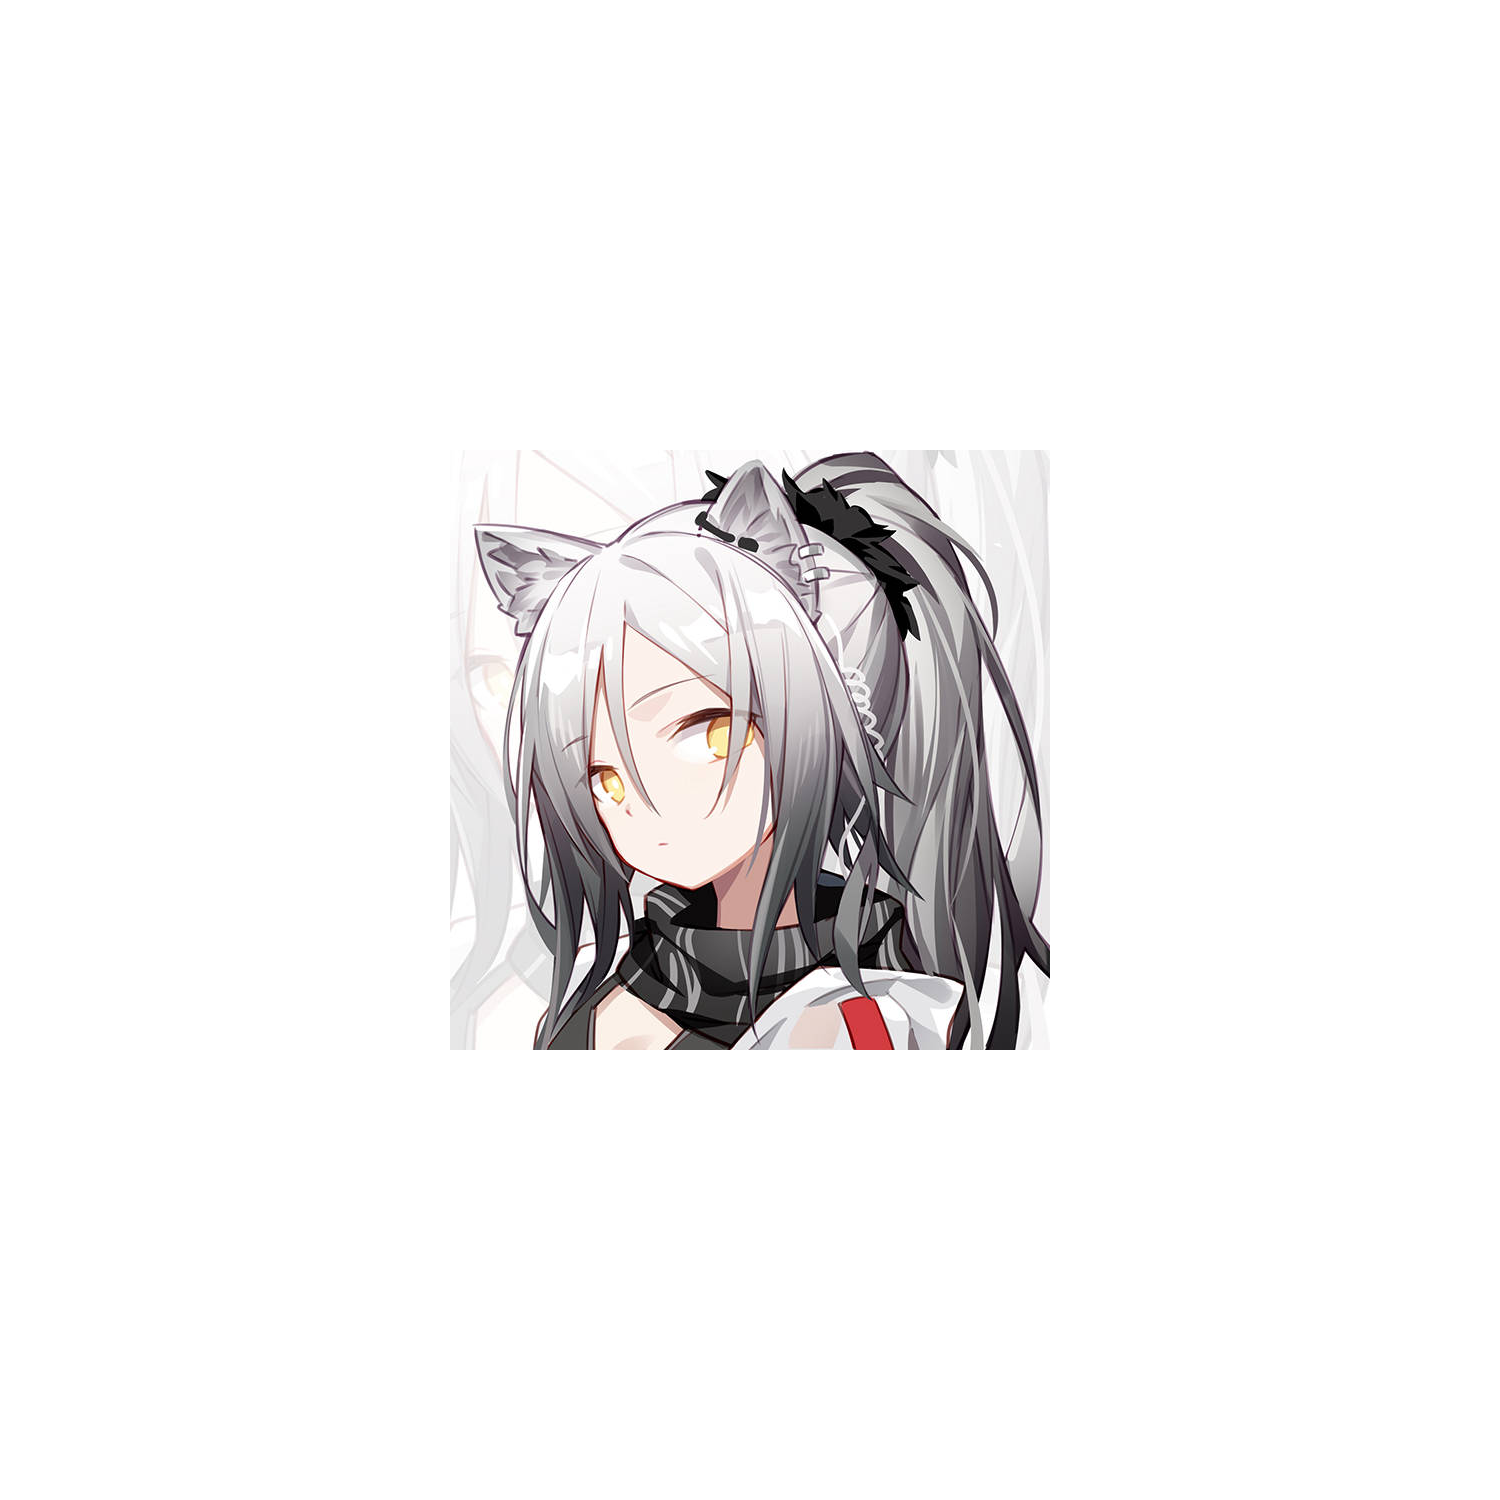
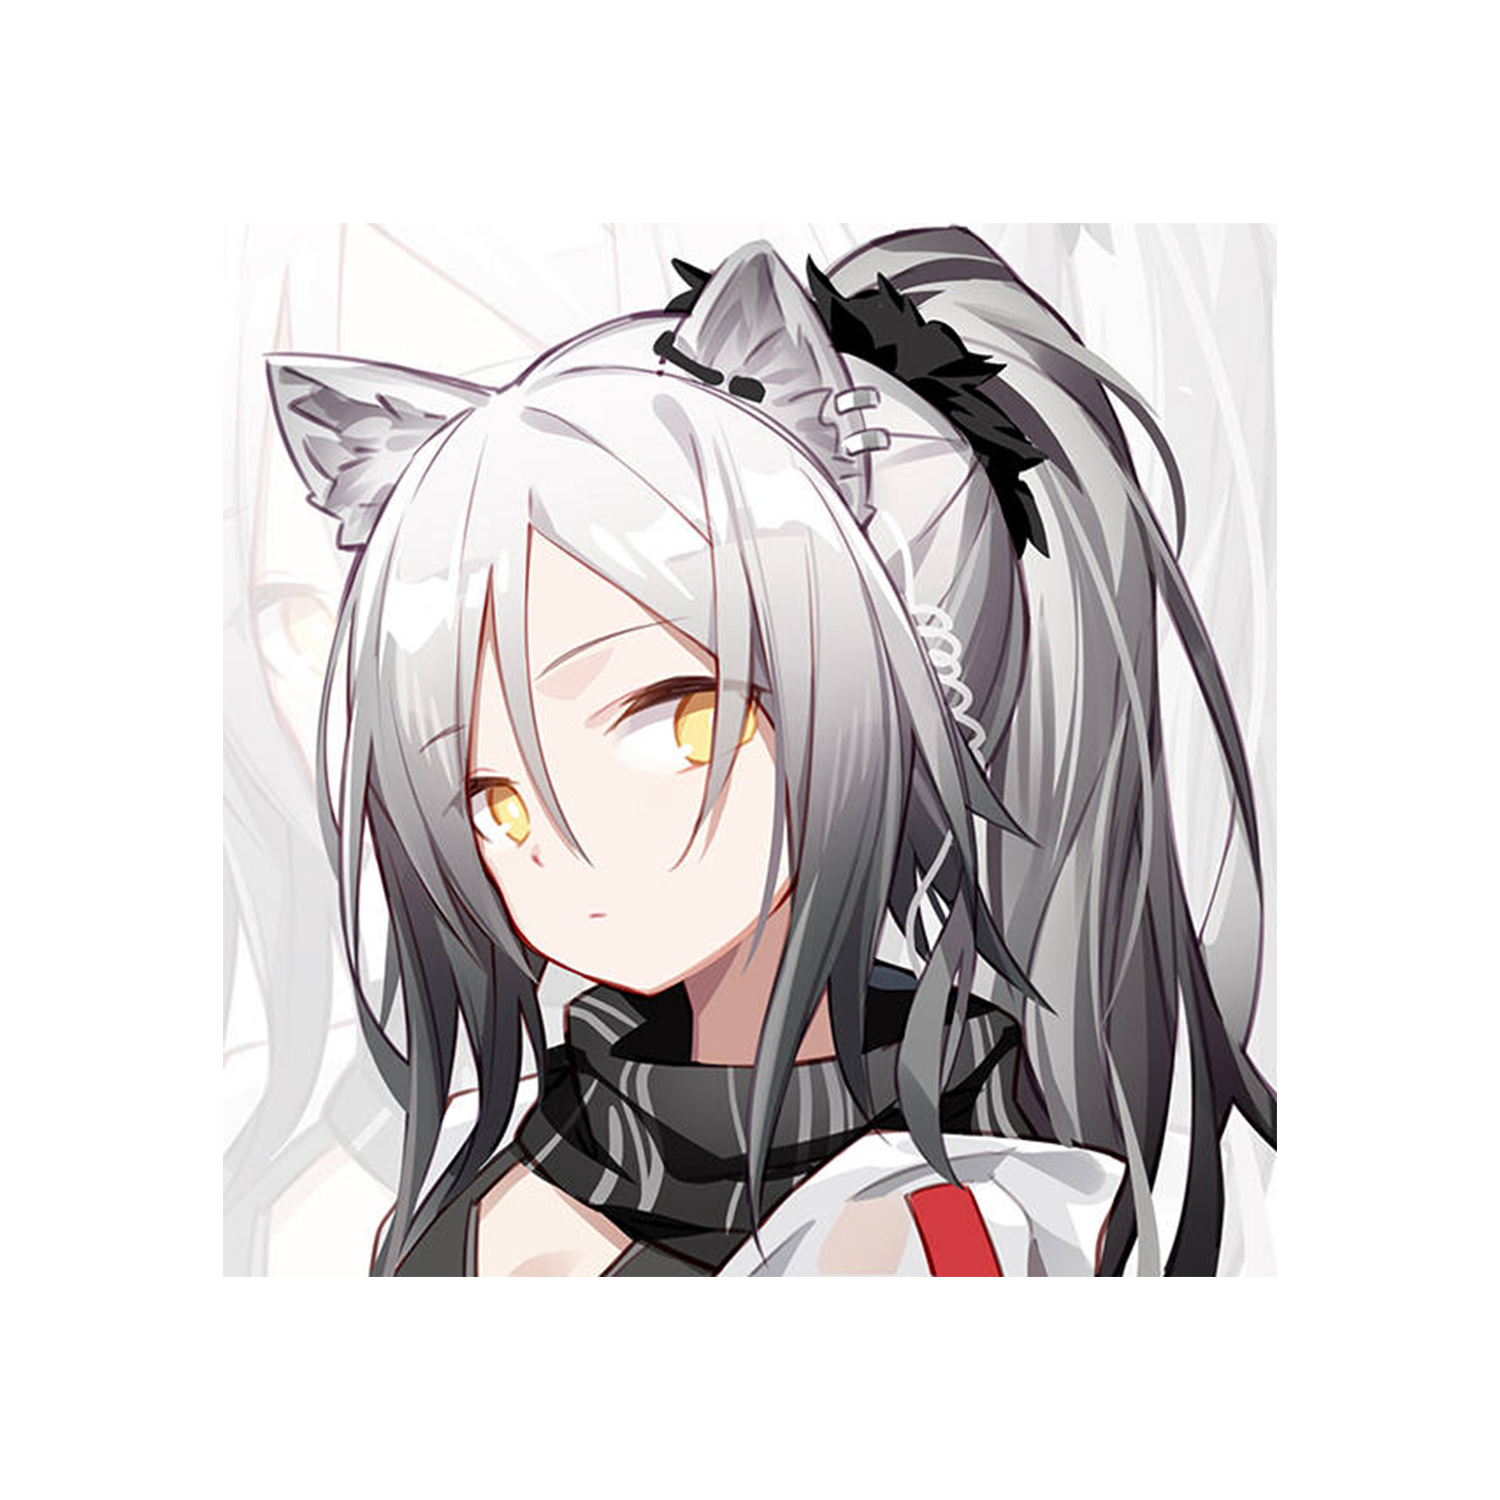
Site updated: 2019-11-08 22:15:49

diff --git a/css/screen.css b/css/screen.css
@@ -384,7 +384,7 @@ margin on the iframe, cause it breaks stuff. */
 /* Yo-logo. Yolo-go. Upload one in ghost/settings/ */
 .blog-logo img {
     display: block;
-    max-height: 100px;
+    max-height: 250px;
     width: auto;
     margin: 0 auto;
     line-height: 0;
